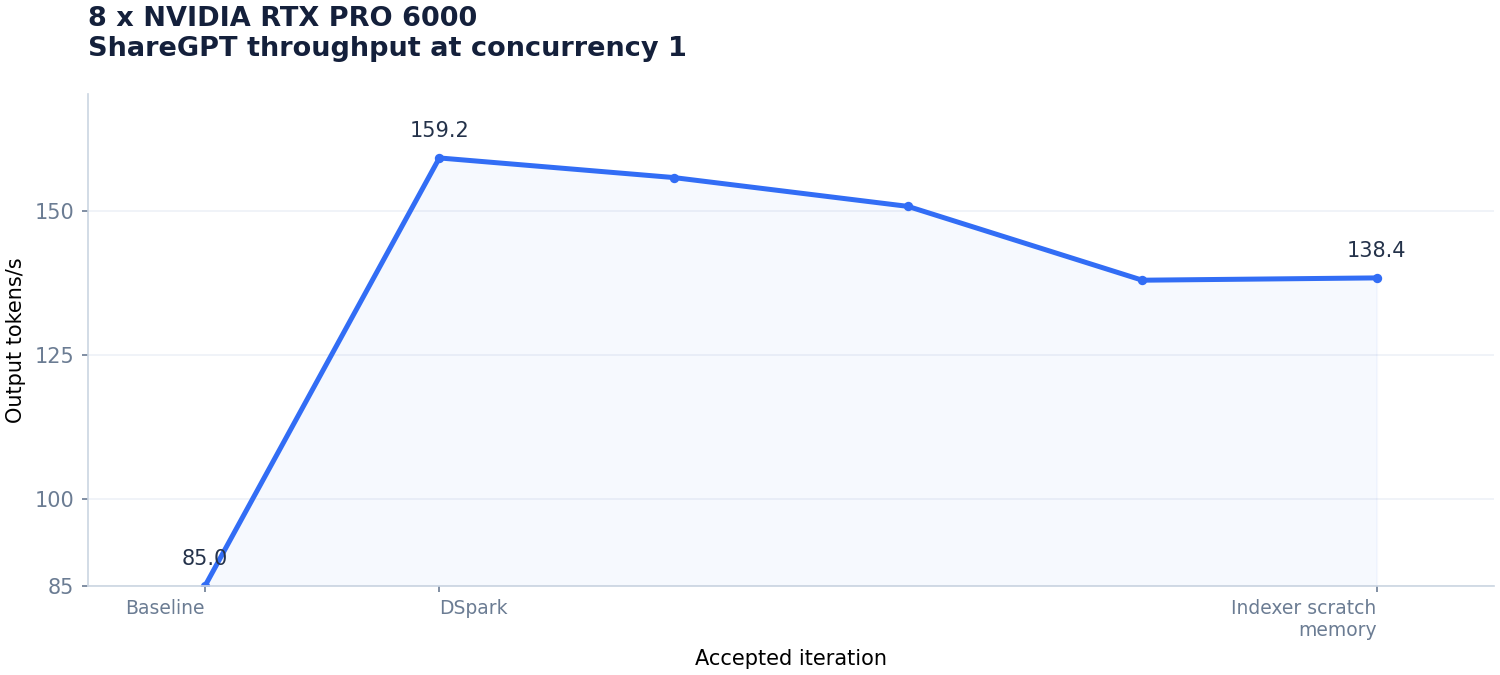
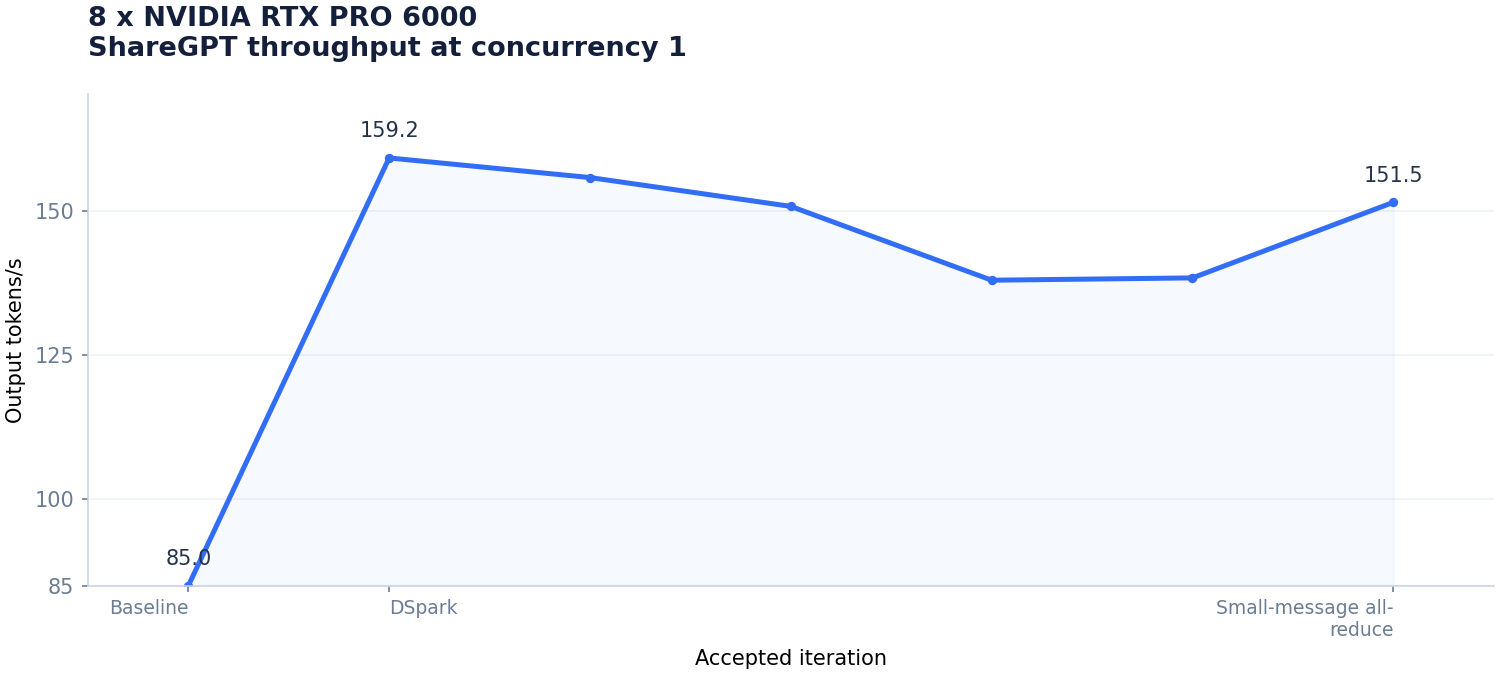
Tune small all-reduce messages

diff --git a/8-nvidia-rtx-pro-6000/CHANGELOG.md b/8-nvidia-rtx-pro-6000/CHANGELOG.md
@@ -4,9 +4,10 @@ The patch is cumulative against `vllm/vllm-openai:v0.32.0`; every working milest
 
 FlashInfer 0.7.1 replaces the bundled 0.7.0.post1 for runtime page-size support, and both the sm120 compatibility patch and `--block-size 64` are required.
 
-## 6. Indexer scratch memory
+## 7. Small-message all-reduce
 
-- Extend the 512 MiB logits budget to sm120 decode without a candidate cache in diff.patch, reducing CUDA graph memory from 19.74 to 9.05 GiB per GPU.
+- Add an NCCL tuner in diff.patch to select Tree for all-reduce messages up to 64 KiB on eight GPUs, reducing small-batch communication latency while leaving larger messages on NCCL's default policy.
+- Name the tuner library `libvllm-sm120-tuner.so` because DeepEP treats loaded `libnccl*` files as NCCL runtimes.
 
 Requirements, on a fresh vLLM image:
 
@@ -16,6 +17,9 @@ python3 -m pip install --no-deps --upgrade flashinfer-cubin==0.7.1 --index-url h
 python3 -m pip install --no-deps --upgrade flashinfer-jit-cache==0.7.1 flashinfer-jit-cache-sm120f==0.7.1 --index-url https://flashinfer.ai/whl/cu130
 vllm_package_dir=$(python3 -c 'import importlib.util; print(importlib.util.find_spec("vllm").submodule_search_locations[0])')
 patch --batch --forward -p1 -d "$vllm_package_dir/.." < 8-nvidia-rtx-pro-6000/diff.patch
+mkdir -p /tmp/nccl-tuner/tuner \
+export NCCL_TUNER_PLUGIN=/usr/local/lib/libvllm-sm120-tuner.so
+export NCCL_TUNER_PLUGIN=/usr/local/lib/libvllm-sm120-tuner.so
 ```
 
 Then, run server as:
@@ -36,14 +40,14 @@ vllm serve deepseek-ai/DeepSeek-V4.1-Flash-1017 \
 
 | Concurrency | Prompts | Output t/s | p95 TTFT (ms) | p95 TPOT (ms) |
 |---:|---:|---:|---:|---:|
-| 1 | 128 | 138.4 | 132.0 | 8.83 |
-| 4 | 128 | 372.5 | 119.3 | 13.11 |
-| 8 | 128 | 558.5 | 212.5 | 16.96 |
-| 16 | 128 | 813.3 | 280.1 | 23.15 |
-| 32 | 128 | 1110.6 | 492.4 | 30.43 |
-| 64 | 128 | 1448.0 | 803.4 | 46.28 |
-| 128 | 256 | 2022.5 | 1378.0 | 74.79 |
-| 256 | 512 | 2721.4 | 2832.3 | 152.44 |
+| 1 | 128 | 151.5 | 132.9 | 8.20 |
+| 4 | 128 | 377.8 | 112.4 | 12.98 |
+| 8 | 128 | 561.9 | 210.8 | 16.65 |
+| 16 | 128 | 809.9 | 277.5 | 22.70 |
+| 32 | 128 | 1117.3 | 393.7 | 31.65 |
+| 64 | 128 | 1432.5 | 808.0 | 49.45 |
+| 128 | 256 | 2074.2 | 1323.4 | 74.08 |
+| 256 | 512 | 2778.4 | 2906.4 | 143.81 |
 
 ## Accepted progress
 
@@ -54,4 +58,5 @@ vllm serve deepseek-ai/DeepSeek-V4.1-Flash-1017 \
 | 3 | Three-token drafts | 155.8 | [`992d4ea`](https://github.com/alvarobartt/DeepSeek-V4.1-Flash-RTX-PRO-6000/tree/992d4eac7bd5f3aab0f2e62a012719471ffffb18) |
 | 4 | Adaptive verification | 150.8 | [`aa424d6`](https://github.com/alvarobartt/DeepSeek-V4.1-Flash-RTX-PRO-6000/tree/aa424d635c4004b144357dbd9518c91f112f8602) |
 | 5 | Expert parallelism | 138.0 | [`c5aada3`](https://github.com/alvarobartt/DeepSeek-V4.1-Flash-RTX-PRO-6000/tree/c5aada30e6d6be4d72714d1bad1446d6e35abd00) |
-| 6 | Indexer scratch memory | 138.4 | This revision |
+| 6 | Indexer scratch memory | 138.4 | [`891d19f`](https://github.com/alvarobartt/DeepSeek-V4.1-Flash-RTX-PRO-6000/tree/891d19f0991391ec7d65bf11ca467aef21ffa5c4) |
+| 7 | Small-message all-reduce | 151.5 | This revision |

diff --git a/README.md b/README.md
@@ -15,14 +15,14 @@ Validated serving recipes for four and eight GPUs, using the checkpoint's origin
 
 | Concurrency | Baseline t/s [^8gpu-baseline] | Baseline + DSpark t/s | Current t/s |
 |---:|---:|---:|---:|
-| 1 | 85.0 | **159.2 (+87.3%)** | 138.4 (-13.1%) |
-| 4 | 253.2 | **380.4 (+50.2%)** | 372.5 (-2.1%) |
-| 8 | 375.4 | 496.2 (+32.2%) | **558.5 (+12.6%)** |
-| 16 | 553.1 | 650.5 (+17.6%) | **813.3 (+25.0%)** |
-| 32 | 657.4 | 954.1 (+45.1%) | **1110.6 (+16.4%)** |
-| 64 | 866.2 | 1185.0 (+36.8%) | **1448.0 (+22.2%)** |
-| 128 | 1242.4 | 1471.9 (+18.5%) | **2022.5 (+37.4%)** |
-| 256 | 1814.1 | 1726.3 (-4.8%) | **2721.4 (+57.6%)** |
+| 1 | 85.0 | **159.2 (+87.3%)** | 151.5 (-4.8%) |
+| 4 | 253.2 | **380.4 (+50.2%)** | 377.8 (-0.7%) |
+| 8 | 375.4 | 496.2 (+32.2%) | **561.9 (+13.2%)** |
+| 16 | 553.1 | 650.5 (+17.6%) | **809.9 (+24.5%)** |
+| 32 | 657.4 | 954.1 (+45.1%) | **1117.3 (+17.1%)** |
+| 64 | 866.2 | 1185.0 (+36.8%) | **1432.5 (+20.9%)** |
+| 128 | 1242.4 | 1471.9 (+18.5%) | **2074.2 (+40.9%)** |
+| 256 | 1814.1 | 1726.3 (-4.8%) | **2778.4 (+60.9%)** |
 
 ![Accepted ShareGPT c1 throughput](8-nvidia-rtx-pro-6000/throughput.png)
 
